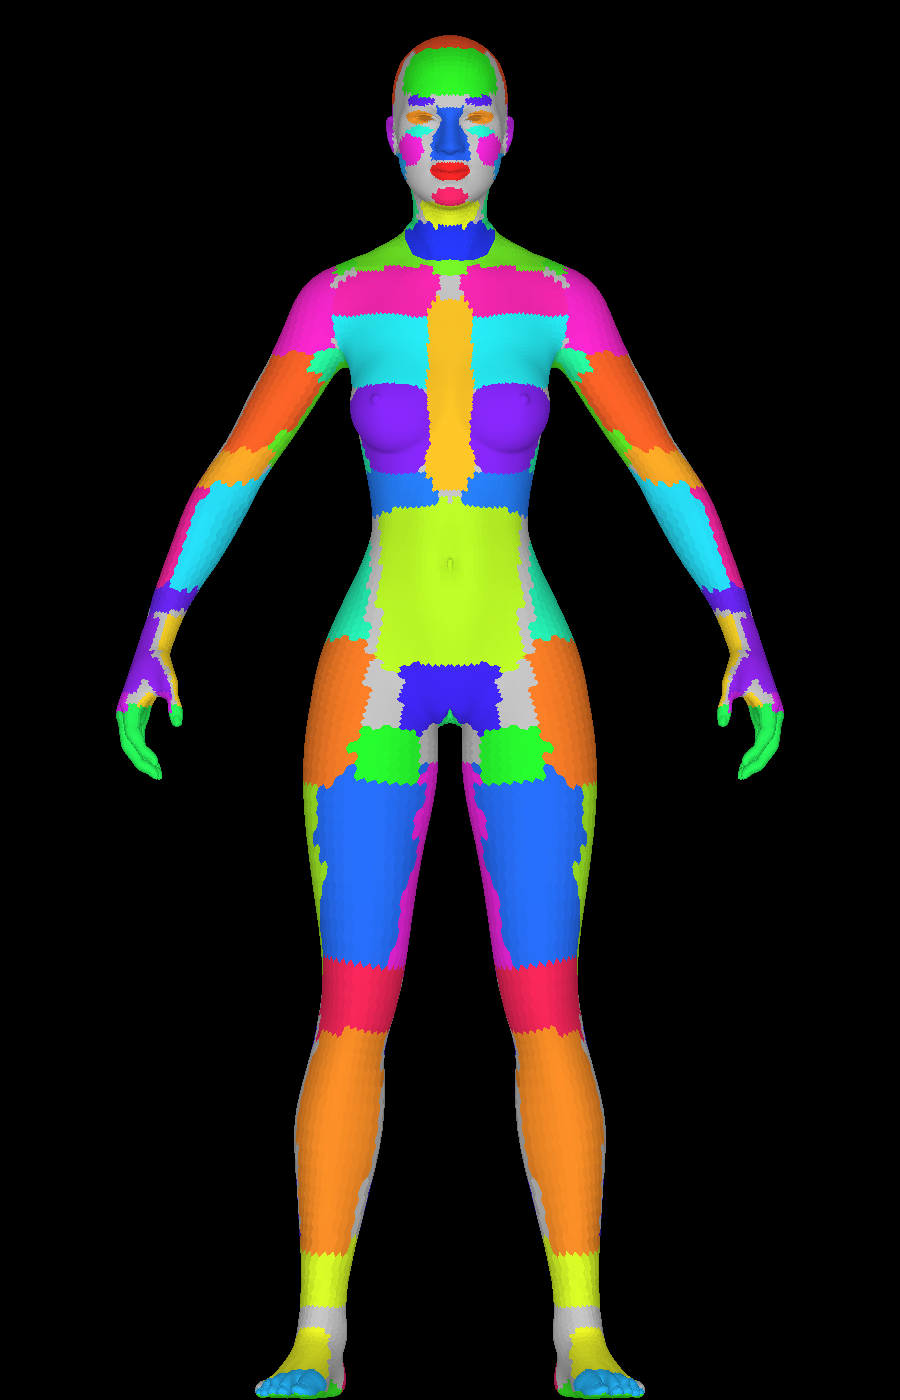
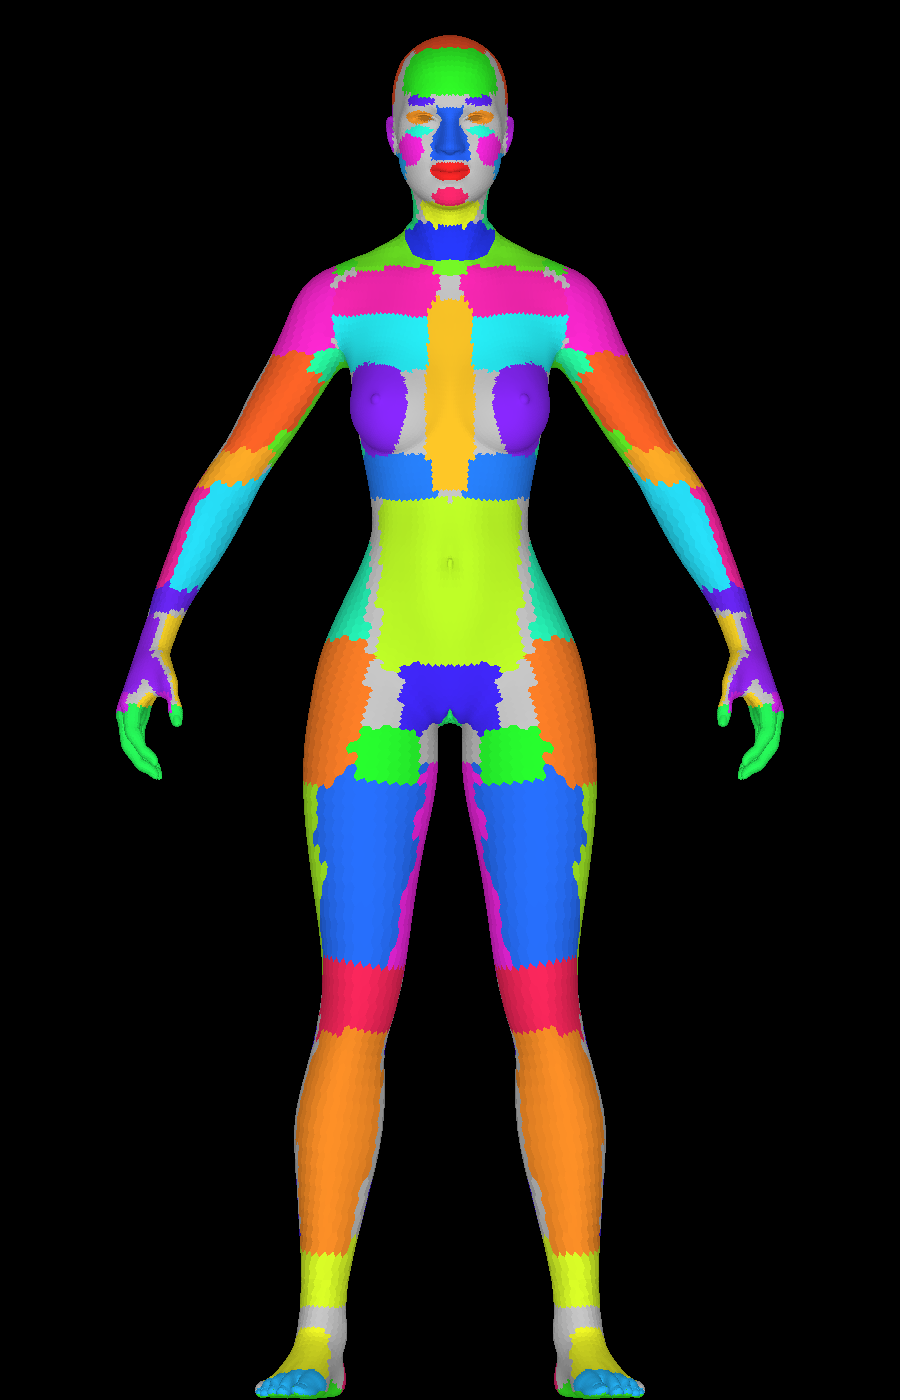
Region masks: find nipples by local protrusion (they sit on the outer breast, not the most forward point); every region enabled in the preset

Changed region(s): [[0.3733, 0.2457, 0.6222, 0.3686]]

diff --git a/tools/RegionMasks/Program.cs b/tools/RegionMasks/Program.cs
@@ -43,7 +43,13 @@ for (float z = 12; z <= 60; z += 2)
 var mid = Enumerable.Range(0, body.VertexCount).Where(i => Math.Abs(BX(i)) < 0.35f && BY(i) > 0 && BZ(i) > 70 && BZ(i) < 90).ToList();
 var navel = mid.MaxBy(i => { var near = mid.Where(j => Math.Abs(BZ(j) - BZ(i)) is > 1.2f and < 2.5f).ToList(); return near.Count == 0 ? -9 : near.Average(BY) - BY(i); });
 var navelP = (Y: BY(navel), Z: BZ(navel));
-var nipple = Enumerable.Range(0, body.VertexCount).Where(i => BX(i) > 2 && BZ(i) > 75 && BZ(i) < 105).MaxBy(BY);
+// nipple: the chest point standing out furthest from the surface around it (not just the most forward one)
+var chest = Enumerable.Range(0, body.VertexCount).Where(i => BX(i) > 1.5f && BZ(i) > 82 && BZ(i) < 102 && BY(i) > 2).ToList();
+var nipple = chest.MaxBy(i =>
+{
+    var ring = chest.Where(j => { var d = Sq(BX(j) - BX(i)) + Sq(BZ(j) - BZ(i)); return d > 1.5f * 1.5f && d < 2.5f * 2.5f; }).ToList();
+    return ring.Count < 4 ? -9 : BY(i) - ring.Average(BY);
+});
 var nipP = (X: BX(nipple), Y: BY(nipple), Z: BZ(nipple));
 Console.WriteLine($"navel y{navelP.Y:F1} z{navelP.Z:F1}; nipple {nipP}; arm centres " + string.Join(" ", armCentre.Select(c => $"z{c.Z}:({c.X:F1},{c.Y:F1})")));
 var hands = shapes.First(s => s.Name == "artHands");
@@ -360,7 +366,8 @@ static void MakePreset(string outDir, string basePath, List<(string Name, string
         foreach (var (group, names) in used)
             if (names.Contains(name)) region.MaskPaths[group] = Path.GetFullPath(Path.Combine(outDir, group, name + ".png"));
         if (region.MaskPaths.Count == 0) continue;
-        region.Enabled = tweaks.TryGetValue(name, out var tweak);
+        region.Enabled = true;
+        tweaks.TryGetValue(name, out var tweak);
         tweak?.Invoke(region.Settings);
         settings.Regions.Add(region);
     }
